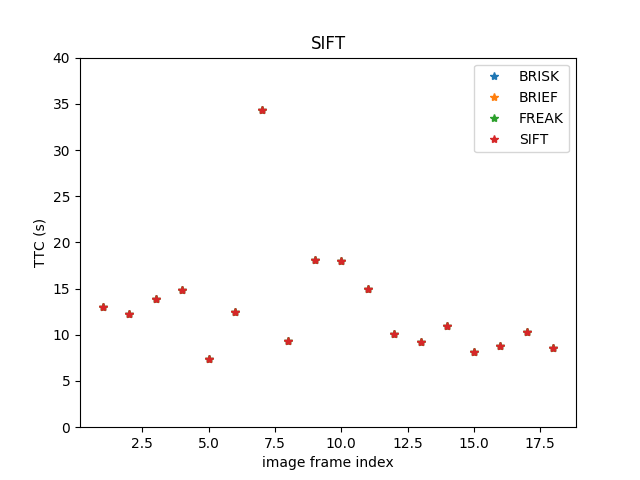
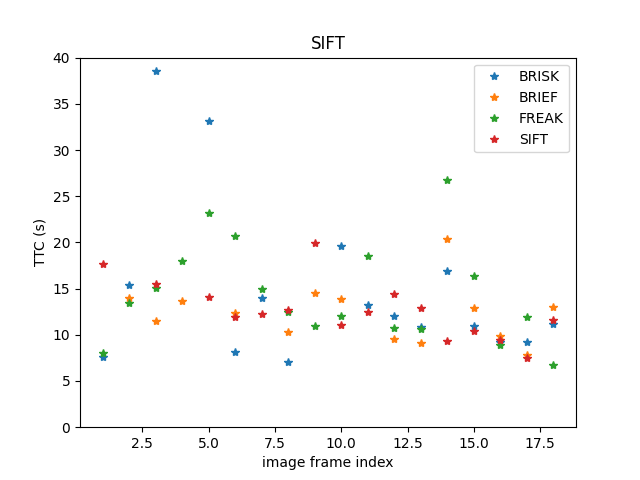
update Report.md

diff --git a/SFND_3D_Object_Tracking/ttc/ttc_plot.py b/SFND_3D_Object_Tracking/ttc/ttc_plot.py
@@ -7,7 +7,7 @@ def read_txt(txt_name):
         with open(txt_name) as f:
             for line in f:
                 line_str = line.rstrip("\n")
-                if line_str == "nan":
+                if line_str in ["nan", "-inf", "inf"]:
                     temp_list.append(-100)
                 else:
                     temp_list.append(float(line_str))
@@ -26,7 +26,7 @@ def report_image():
         ax.set_ylim(0, 40)
         descriptor_list = []
         for descriptor in descriptors:
-            txt_name = "ttc/" + detector + "_" + descriptor + ".txt"
+            txt_name = detector + "_" + descriptor + ".txt"
             ttcs = read_txt(txt_name)
 
             if ttcs:
@@ -37,7 +37,7 @@ def report_image():
                 ax.grid()
 
             ax.legend(descriptor_list)
-        fig.savefig(detector + ".png")
+        fig.savefig("../images/report_images/" + detector + ".png")
 
 
 

diff --git a/SFND_3D_Object_Tracking/src/FinalProject_Camera.cpp b/SFND_3D_Object_Tracking/src/FinalProject_Camera.cpp
@@ -82,9 +82,9 @@ int main(int argc, const char *argv[])
     vector<double> ttcCameraData(num_ttc, NAN);
 
     // variable
-    string detectorType = "ORB";         //// -> SHITOMASI, HARRIS, FAST, BRISK, ORB, AKAZE (only with AKAZE), SIFT (not with ORB)
+    string detectorType = "SIFT";         //// -> SHITOMASI, HARRIS, FAST, BRISK, ORB, AKAZE (only with AKAZE), SIFT (not with ORB)
 
-    string descriptorType = "ORB"; //// ->  BRISK, BRIEF, ORB, FREAK, AKAZE(only with AKAZE), SIFT (change to HOG)
+    string descriptorType = "SIFT"; //// ->  SIFT, BRIEF, ORB, FREAK, AKAZE(only with AKAZE), SIFT (change to HOG)
 
     /* MAIN LOOP OVER ALL IMAGES */
 

diff --git a/SFND_3D_Object_Tracking/Report.md b/SFND_3D_Object_Tracking/Report.md
@@ -89,13 +89,12 @@ Time-to-collision is definded by distance / relaive velocity. It is important to
 In our approach, we use minimal distance of previous and current lidar points to estimate the relative velocity. The lidar sensor is heavily influenced by noises, and the removing outliers might neglect some correct values.
 Using this distance change to estimate relative velocity might be erroneous. Therefore, the TTC calculation might be not plausible.
 
-Secondly, the detector/descriptor influences keypoints match, therefore influences the best match bounding boxes, finally changes the results of lidar TTC calculateion.
+Secondly, the detector/descriptor influences keypoints match, therefore influences the best match bounding boxes, finally might make the results of lidar TTC calculation infeasible.
 
 ## FP.6 - Performance Evaluation 2
 
 I created 7 graphs demonstrating the TTC each possible combination of detectors and descriptors. 
 Each graph provides the trend of TTC od one detector along with different descriptors. 
-It is interesting that many TTCs are overlapped even though different descriptors are used.
 
 <img src="images/report_images/SHITOMASI.png"  />
 
@@ -111,7 +110,6 @@ It is interesting that many TTCs are overlapped even though different descriptor
 
 <img src="images/report_images/SIFT.png" />
 
-There are still quite a lot of problems in the TTC calculation.
 
 For example, if we look at a matched image in FAST detector + BRISK descriptor, some matched points are not belonging to the precedding car but belonging to the car which is far away but overlapped with precedding car in the image.
 It is also difficult to filter those matched points.
